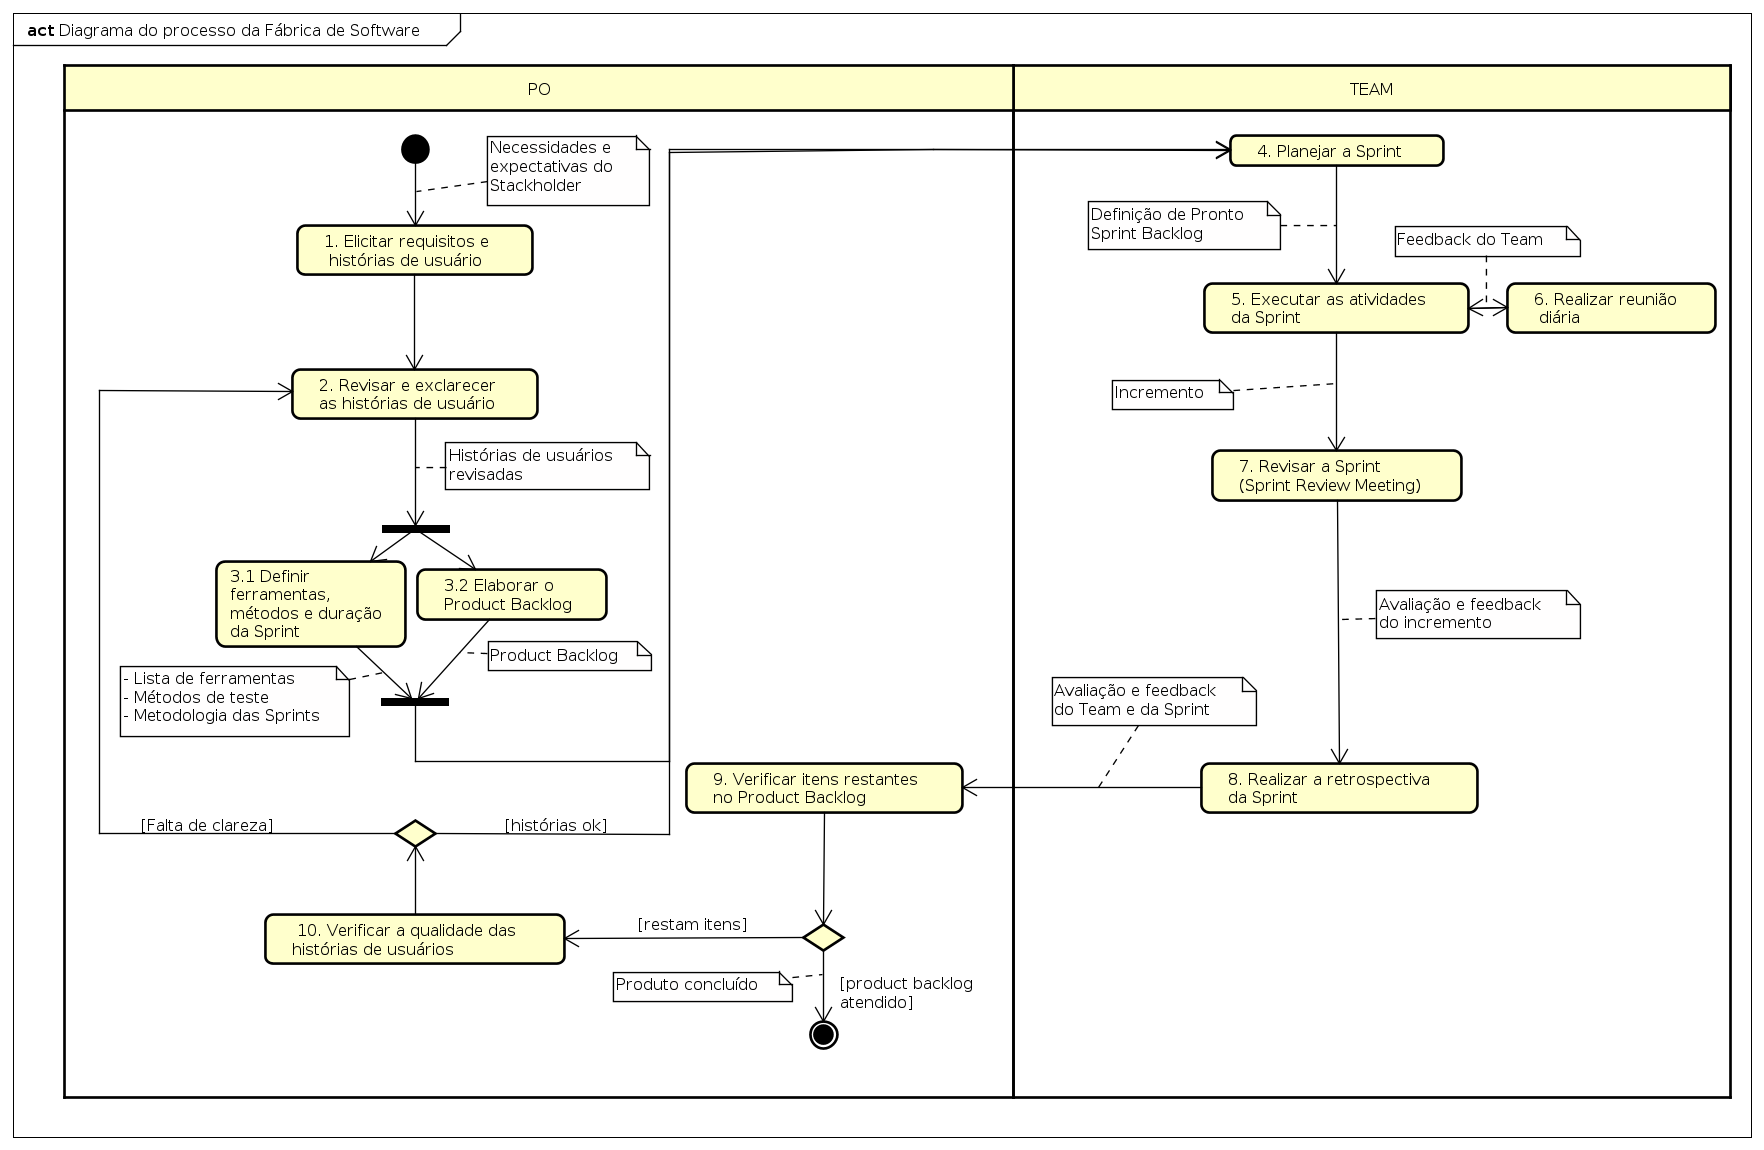
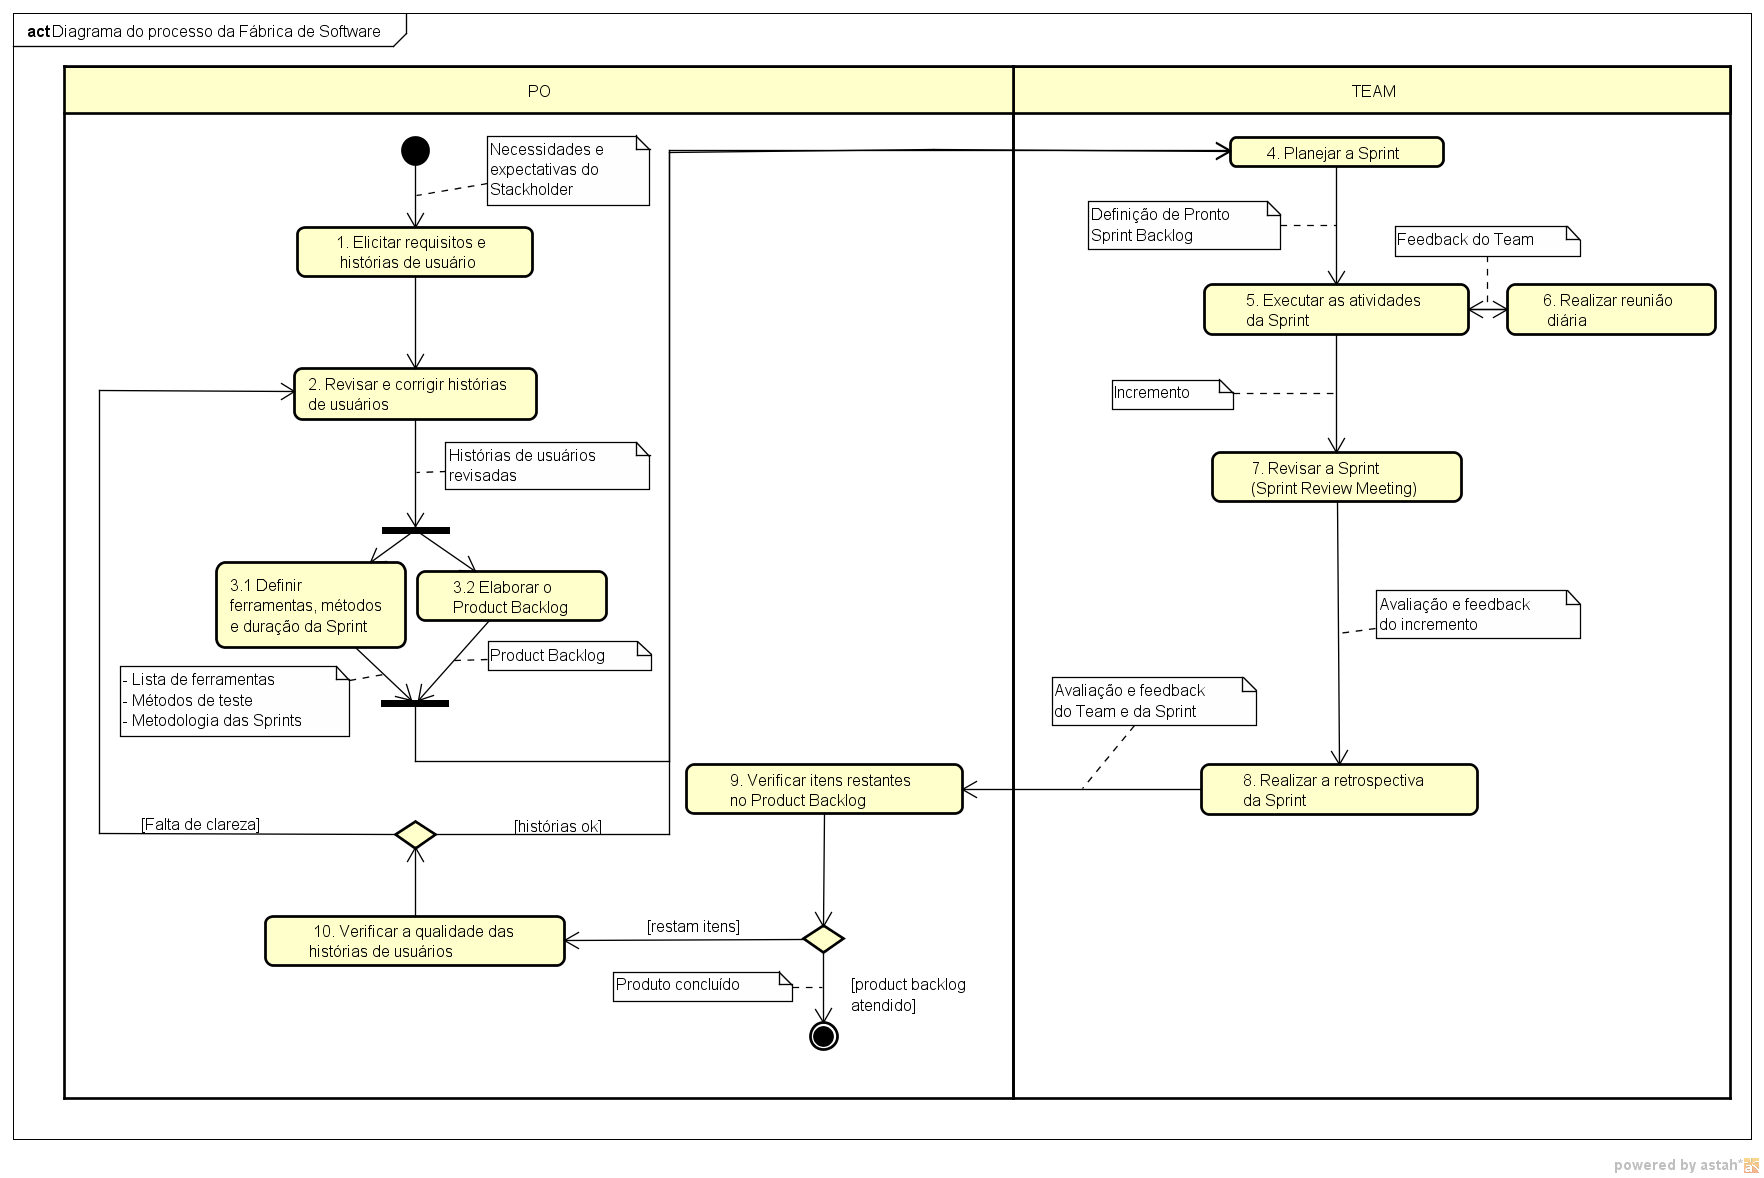
algumas correcoes

diff --git a/index.html b/index.html
@@ -42,7 +42,7 @@
 				<hr />
 				<h2>Descrição</h2>
 				<p>
-				Essa atividade está ligado ao levantamento de requisitos
+				Essa atividade está ligada ao levantamento de requisitos
 				funcionais em formato de
 				histórias de usuários (User Stories). Essa etapa é
 				fundamental para a construção do Product Backlog, que
@@ -51,7 +51,7 @@
 				</p>
 				<h2>Responsáveis</h2>
 				<p>
-				Product Owner, e se for possível, um auxiliar ao Product
+				Product Owner e, se for possível, um auxiliar ao Product
 				Owner para que possa conduzir a escrita das histórias.
 				</p>
 				<h2>Entradas e saídas</h2>
@@ -68,7 +68,7 @@
 						Como resultado, você consegue as
 						<strong>Histórias de usuários</strong>, sendo uma coletânea
 						de histórias que descrevem o que é esperado do produto a ser
-						desenvolvido.
+						desenvolvido
 					</li>
 				</ul>
 				<h2>Tarefas</h2>
@@ -76,7 +76,7 @@
 					<li>Realizar reuniões com os stakeholders para obtenção das necessidades e expectativas dos stakeholders
 					</li>
 					<li>Registrar as histórias de usuário de acordo com o modelo proposto pelo modelo Connextra (BIK et al., 2017): "Como
-						<strong>(papel)</strong>, eu quero <strong>(algo)</strong> para <strong>(me beneficiar)</strong>".
+						<strong>(papel)</strong>, eu quero <strong>(algo)</strong> para <strong>(me beneficiar)</strong>"
 					</li>
 					<li>Registrar requisitos não funcionais detectados</li>
 				</ul>
@@ -95,7 +95,7 @@
 				<q>
 					Como um gestor de atividades, eu quero poder cadastrar
 					atividades e tarefas de um processo para eu poder organizar
-					a sequência de atividades a serem realizadas em um projeto.
+					a sequência de atividades a serem realizadas em um projeto
 				</q>
 				<h2>Materiais e referências</h2>
 				<p>BIK, Niels; LUCASSEN, Garm; BRINKKEMPER, Sjaak. A reference method for user story requirements in agile
@@ -114,7 +114,7 @@
 				</p>
 				<h2>Responsáveis</h2>
 				<p>
-				Product Owner, e se for possível, um auxiliar ao Product Owner, de preferência um desenvolvedor para
+				Product Owner e, se for possível, um auxiliar ao Product Owner, de preferência um desenvolvedor para
 				verificar a viabilidade de atendimento das histórias de usuário.
 				</p>
 				<h2>Entradas e saídas</h2>
@@ -129,7 +129,7 @@
 					<li>
 						Como resultado, você consegue as
 						<strong>histórias de usuários revisadas</strong>, sendo uma coletânea
-						das histórias revisadas e analisadas.
+						das histórias revisadas e analisadas
 					</li>
 				</ul>
 				<h2>Tarefas</h2>

diff --git a/styles/clickable-boxes.css b/styles/clickable-boxes.css
@@ -36,69 +36,69 @@
 #captacao {
     width: 13.4%;
     height: 4.4%;
-    top: 19.8%;
+    top: 18.8%;
     left: 16.8%;
 } 
 
 #revisao_historias {
     width: 13.8%;
     height: 4.4%;
-    top: 32%;
+    top: 31%;
     left: 16.7%;
 }
 
 #definir_ferramentas {
     width: 10.7%;
     height: 7.4%;
-    top: 48.9%;
+    top: 47.9%;
     left: 12.2%;
 }
 
 #elaboracao_backlog {
     width: 10.5%;
     height: 4.4%;
-    top: 49.5%;
+    top: 48.0%;
     left: 23.8%;
 }
 #planejar_sprint {
     width: 12.1%;
     height: 2.5%;
-    top: 12.1%;
+    top: 12.0%;
     left: 69.8%;
 }
 #executar_atividades {
     width: 15%;
     height: 4.4%;
-    top: 24.6%;
+    top: 23.6%;
     left: 68.3%;
 }
 #reuniao {
     width: 11.8%;
     height: 4.4%;
-    top: 24.6%;
+    top: 24.0%;
     left: 85.4%;
 }
 #revisao_sprint {
     width: 14.4%;
     height: 4.4%;
-    top: 39%;
+    top: 38%;
     left: 68.6%;
 }
 #realizar_retrospectiva {
     width: 15.7%;
     height: 4.4%;
-    top: 66%;
+    top: 65%;
     left: 68.0%;
 }
 #verificar_product_backlog {
     width: 15.6%;
     height: 4.4%;
-    top: 66%;
+    top: 65.0%;
     left: 38.9%;
 }
 #verificar_historias {
     width: 16.7%;
     height: 4.4%;
-    top: 79%;
+    top: 77%;
     left: 15.2%;
 }
